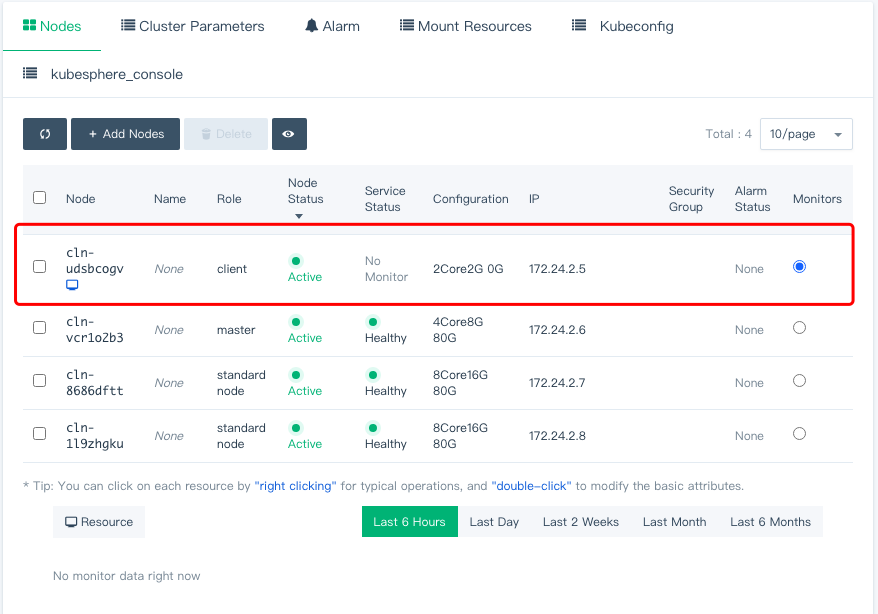
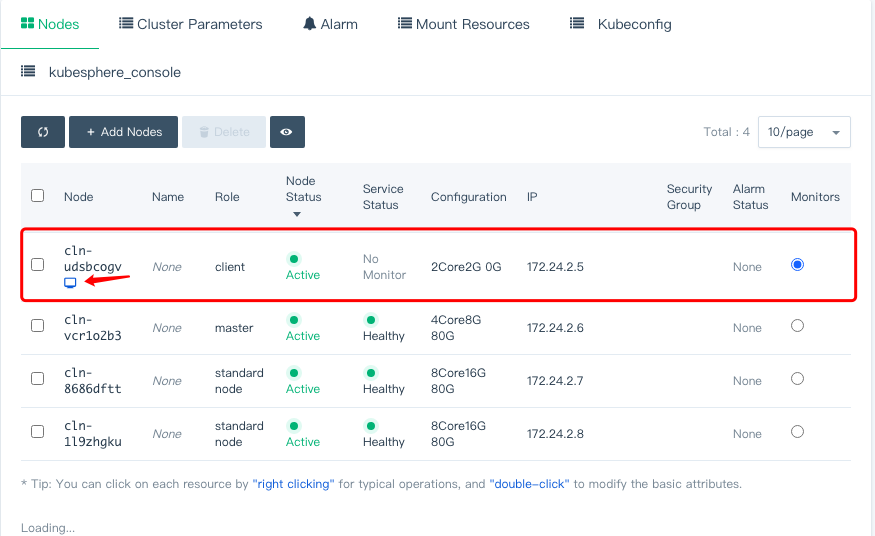
update image

diff --git a/v1.16/QKE/README.md b/v1.16/QKE/README.md
@@ -22,7 +22,7 @@ You can create QKE cluster according to [QKE User Guide](https://docs.qingcloud.
 
 ![](guide5.png)
 
-- Choose client node as test host
+- Click the VNC icon to log in to the client node with root/k8s password
 
 ![](guide6.png)
 
